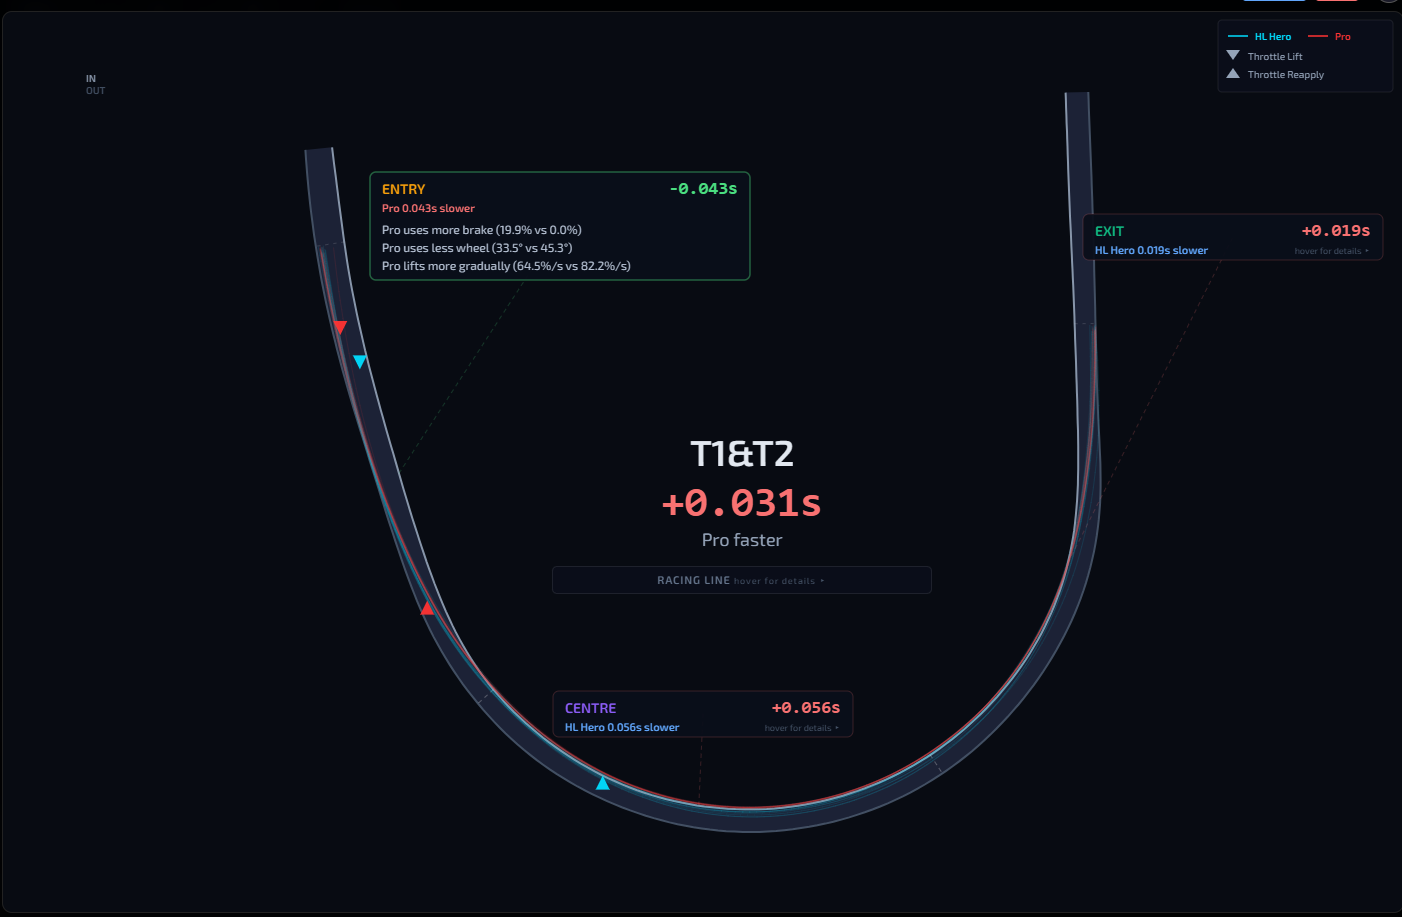
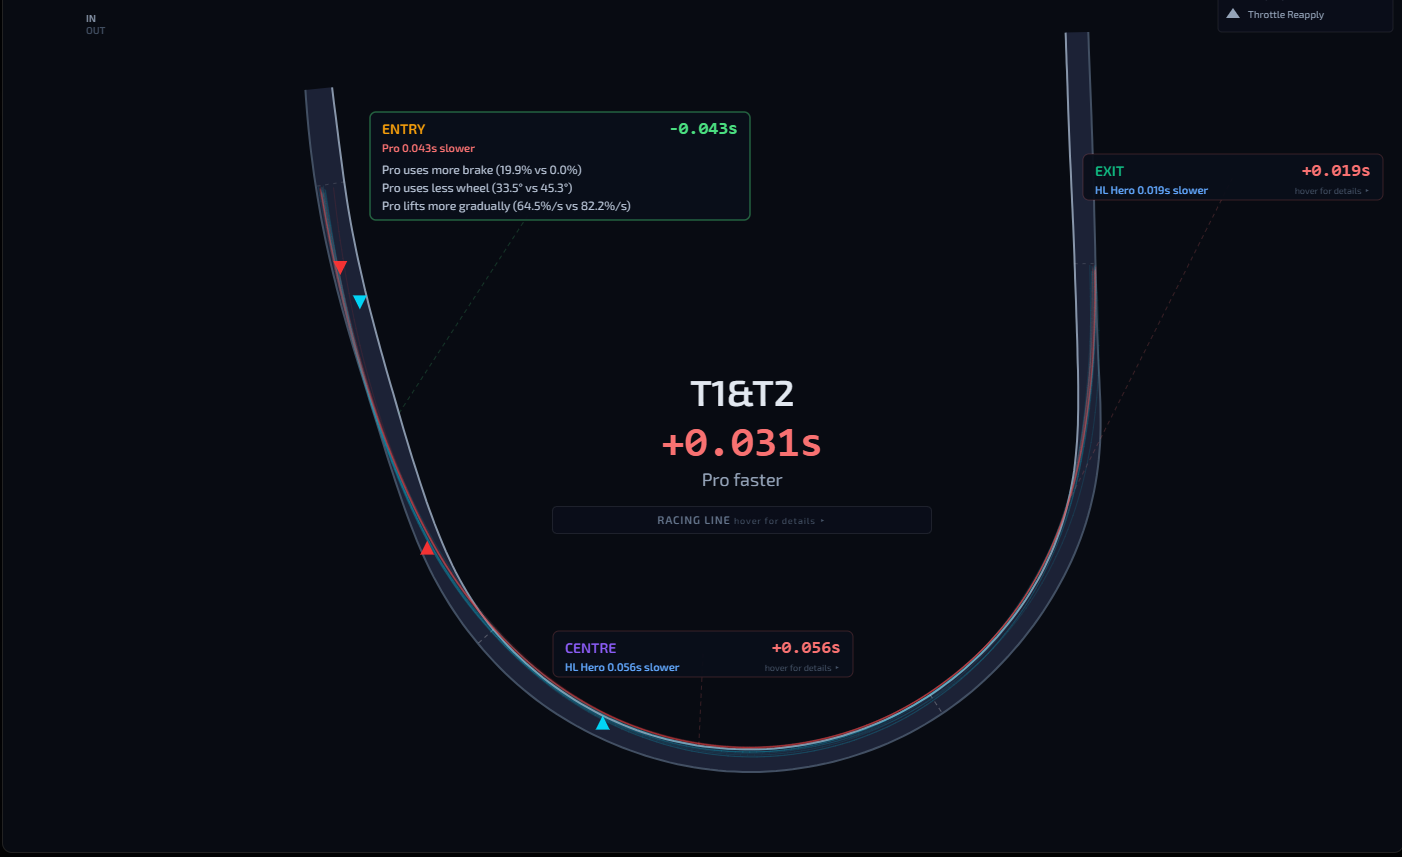
Crop top of screenshot to remove old legend/chrome
Physically cropped 60px off the top of the image. Reduced top gradient
fade since the legend is gone from the source image.

diff --git a/driver-comparison.html b/driver-comparison.html
@@ -799,14 +799,14 @@ body {
 .cz-img {
   width: 100%;
   display: block;
-  clip-path: inset(3% 0 5% 0);
+  clip-path: inset(0 0 5% 0);
 }
 
 .cz-fade-top {
   position: absolute;
   top: 0; left: 0; right: 0;
-  height: 100px;
-  background: linear-gradient(to bottom, var(--bg-deep) 0%, var(--bg-deep) 30%, transparent 100%);
+  height: 40px;
+  background: linear-gradient(to bottom, var(--bg-deep), transparent);
   pointer-events: none;
   z-index: 1;
 }
